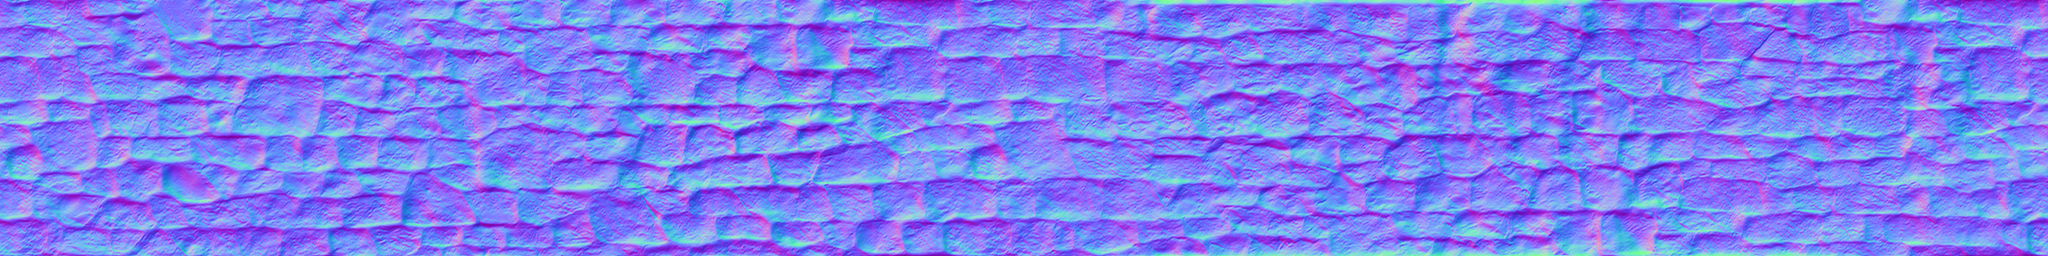
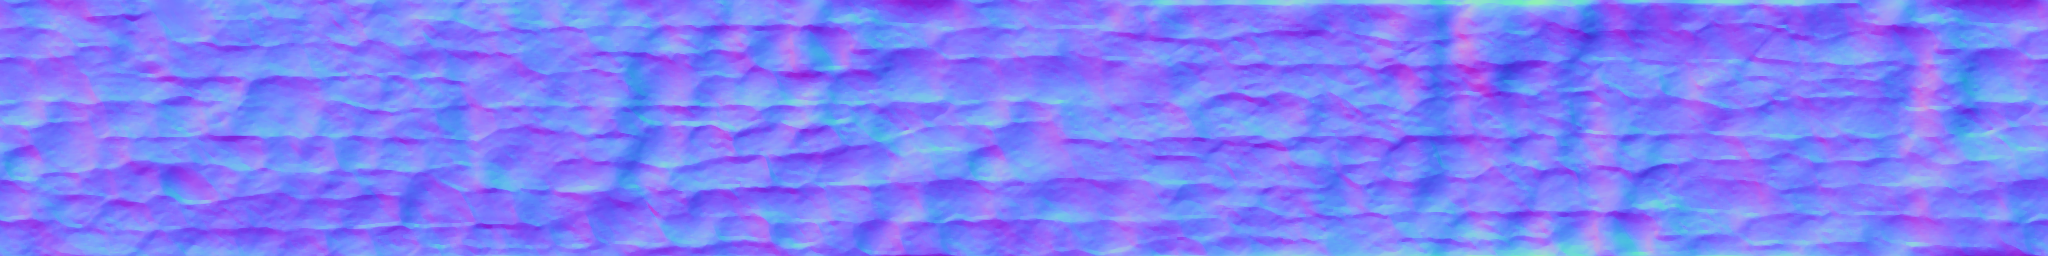
improved the houses bricks normal map and placed the house a bit higher, also the sun can now be moved faster

diff --git a/Engine Test/Game/Source/TGWorld.cpp b/Engine Test/Game/Source/TGWorld.cpp
@@ -108,7 +108,7 @@ namespace TG
 		if(_sunLight != 0)
 		{
 			RN::Vector3 sunrot;
-			sunrot.x = (input->IsKeyPressed('e') - input->IsKeyPressed('q')) * 10.0f * delta;
+			sunrot.x = (input->IsKeyPressed('e') - input->IsKeyPressed('q')) * 20.0f * delta;
 			sunrot.y = (input->IsKeyPressed('t') - input->IsKeyPressed('g')) * 10.0f * delta;
 			_sunLight->Rotate(sunrot);
 		}
@@ -439,6 +439,7 @@ namespace TG
 		RN::Model *house = RN::Model::WithFile("models/blendswap/cc0_timber_house/timber_house.sgm");
 		RN::Entity *houseent = new RN::Entity();
 		houseent->SetModel(house);
+		houseent->SetWorldPosition(RN::Vector3(0.0f, 0.8f, 0.0f));
 		
 
 #define TREE_MODEL_COUNT 10
